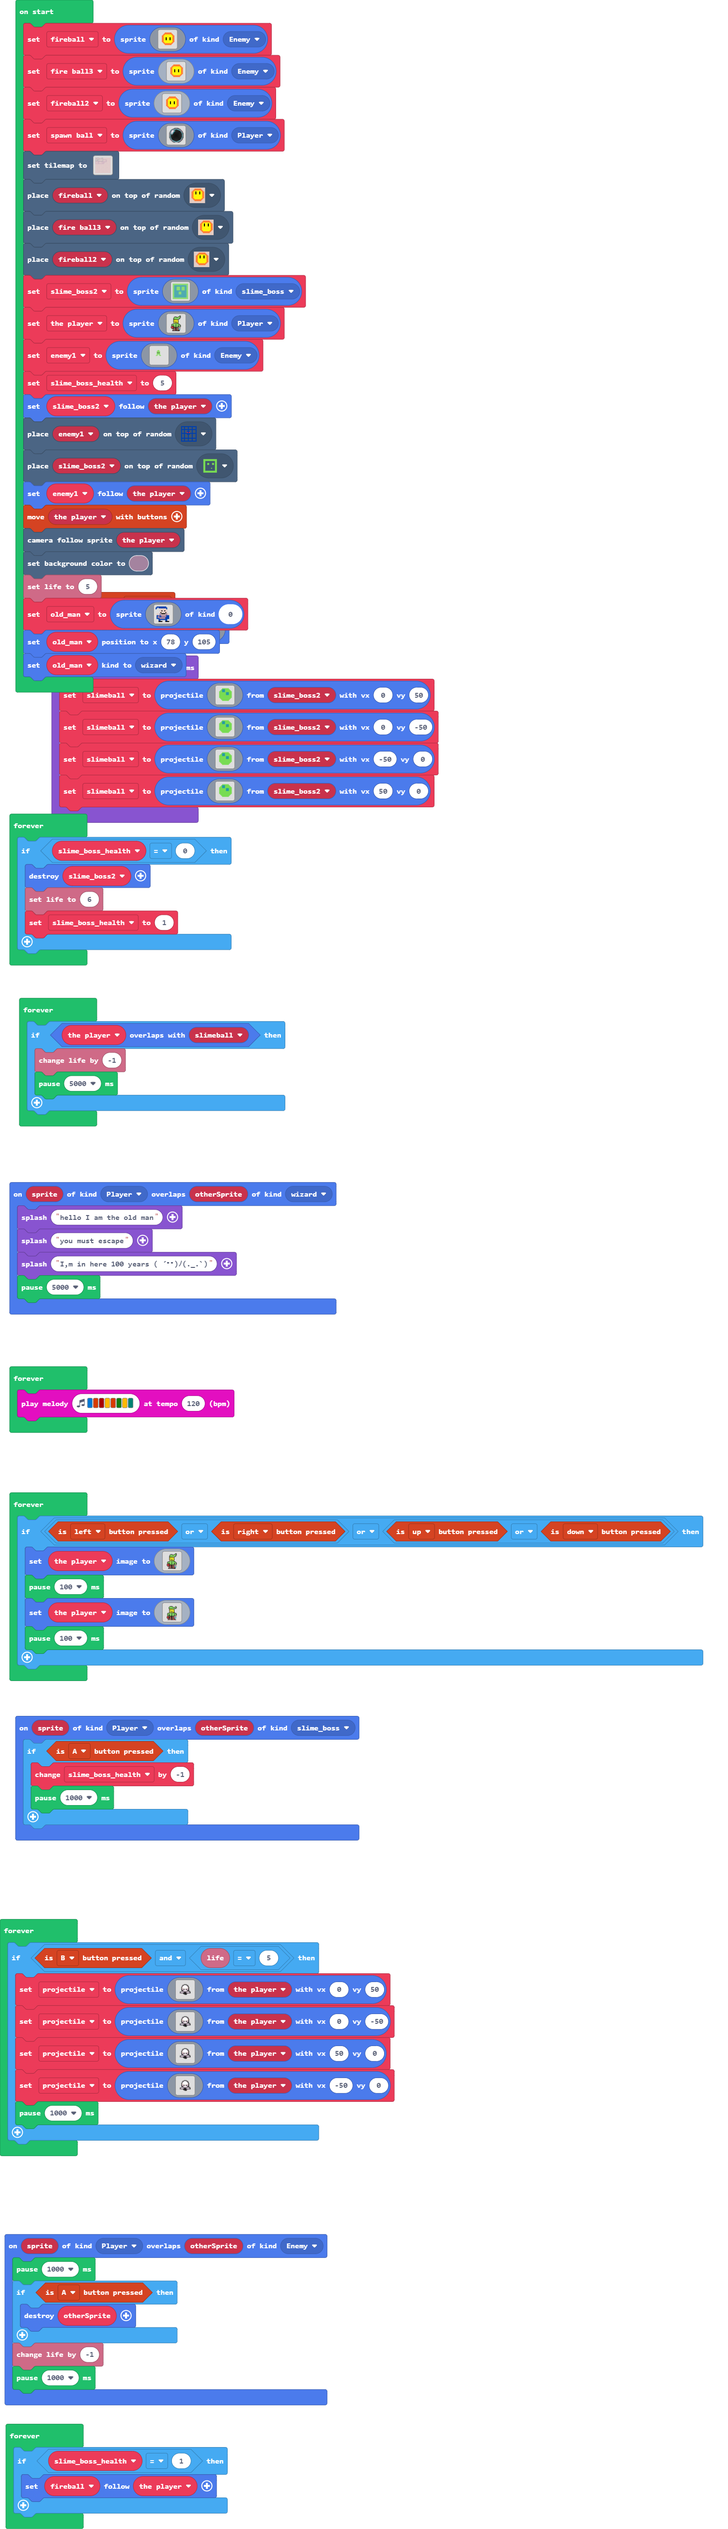
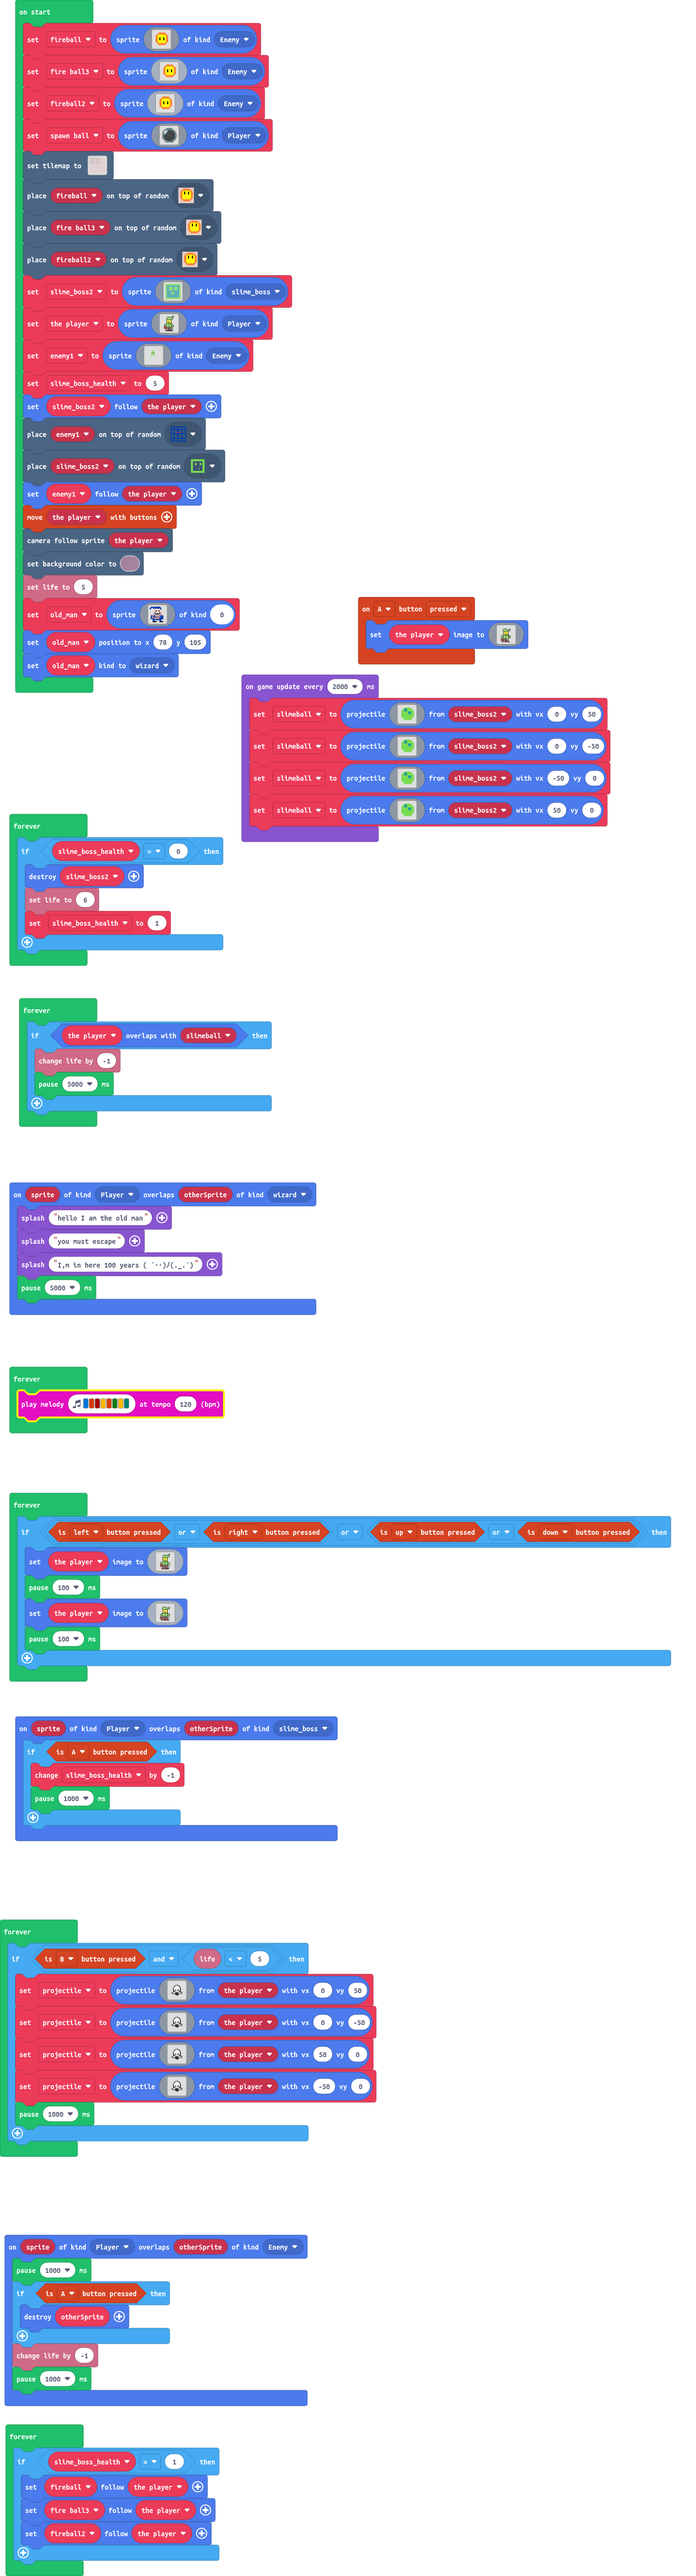
Update pxt.json, main.blocks, main.ts, images.g.jres, images.g.ts

Changed region(s): [[0.0, 0.0, 0.9805, 1.0]]

diff --git a/images.g.ts b/images.g.ts
@@ -924,6 +924,42 @@ f2222feeeffeeef.ee.
 . . . 8 8 . . . . . 8 8 . . . . 
 . . . f f f f . . . f f f f . . 
 `;
+            case "image38":return img`
+. . . . . . . . . . . . . . . . 
+. . . . . 4 4 4 4 4 4 4 . . . . 
+. . . . 4 4 4 4 4 4 4 4 4 . . . 
+. . . 4 4 5 5 5 5 5 5 5 4 4 . . 
+. . 4 4 5 5 5 5 5 5 5 5 5 4 4 . 
+. . 4 4 5 5 5 5 5 5 5 5 5 4 4 . 
+. . 4 4 5 5 f 5 5 5 f 5 5 4 4 . 
+. . 4 4 5 5 f 5 5 5 f 5 5 4 4 . 
+. . 4 4 5 5 f 5 5 5 f 5 5 4 4 . 
+. . 4 4 5 5 5 5 5 5 5 5 5 4 4 . 
+. . 4 4 5 5 5 5 5 5 5 5 5 4 4 . 
+. . . 4 4 5 5 5 5 5 5 5 4 4 . . 
+. . . . 4 4 4 4 4 4 4 4 4 . . . 
+. . . . . 4 4 4 4 4 4 4 . . . . 
+. . . . . . . . . . . . . . . . 
+. . . . . . . . . . . . . . . . 
+`;
+            case "image39":return img`
+. . . . . . . . . . . . . . . . 
+. . . . . 4 4 4 4 4 4 4 . . . . 
+. . . . 4 4 4 4 4 4 4 4 4 . . . 
+. . . 4 4 5 5 5 5 5 5 5 4 4 . . 
+. . 4 4 5 5 5 5 5 5 5 5 5 4 4 . 
+. . 4 4 5 5 5 5 5 5 5 5 5 4 4 . 
+. . 4 4 5 5 f 5 5 5 f 5 5 4 4 . 
+. . 4 4 5 5 f 5 5 5 f 5 5 4 4 . 
+. . 4 4 5 5 f 5 5 5 f 5 5 4 4 . 
+. . 4 4 5 5 5 5 5 5 5 5 5 4 4 . 
+. . 4 4 5 5 5 5 5 5 5 5 5 4 4 . 
+. . . 4 4 5 5 5 5 5 5 5 4 4 . . 
+. . . . 4 4 4 4 4 4 4 4 4 . . . 
+. . . . . 4 4 4 4 4 4 4 . . . . 
+. . . . . . . . . . . . . . . . 
+. . . . . . . . . . . . . . . . 
+`;
         }
         return null;
     })

diff --git a/main.ts b/main.ts
@@ -406,7 +406,7 @@ forever(function () {
     }
 })
 forever(function () {
-    if (controller.B.isPressed() && info.life() == 5) {
+    if (controller.B.isPressed() && info.life() < 5) {
         projectile = sprites.createProjectileFromSprite(img`
             ........................
             ........................
@@ -517,5 +517,7 @@ forever(function () {
 forever(function () {
     if (slime_boss_health == 1) {
         fireball.follow(the_player)
+        fire_ball3.follow(the_player)
+        fireball2.follow(the_player)
     }
 })
